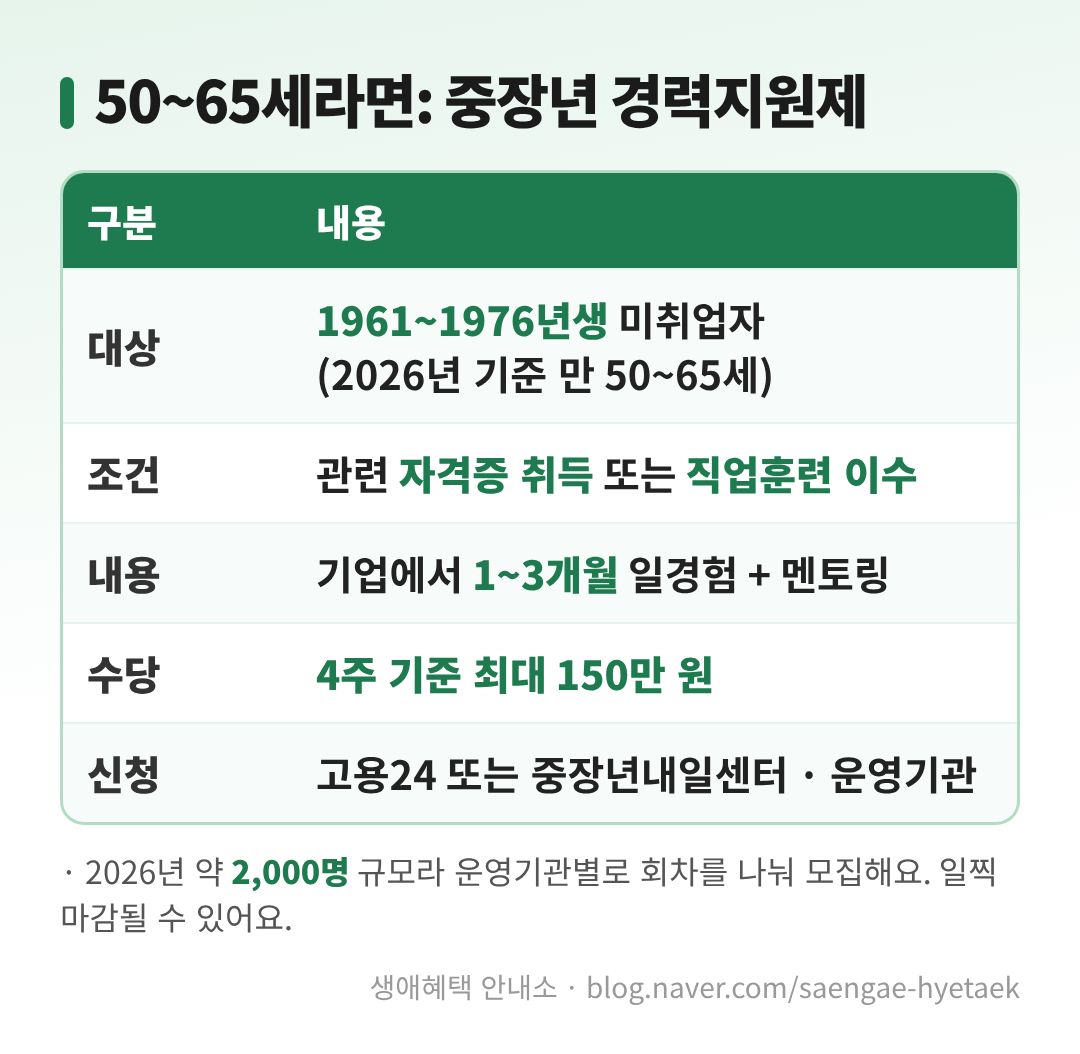
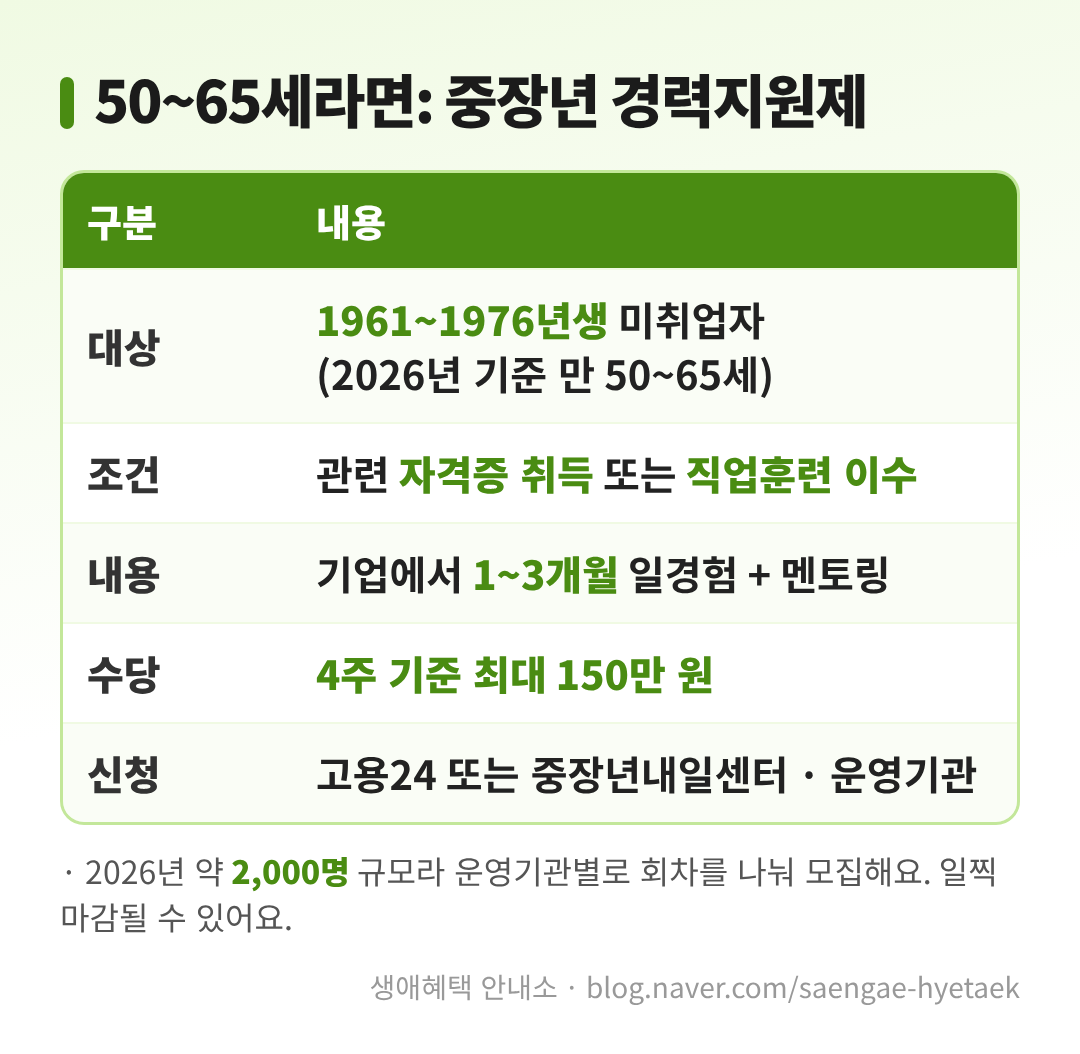
요일 색 확정: 월 다홍·수 파랑·금 녹색(#4A8C12)
Claude-Session: https://claude.ai/code/session_01Nk3GpQpxJj9NPpDGjGUV5D

diff --git a/tools/blog-card/make-viewer.py b/tools/blog-card/make-viewer.py
@@ -6,7 +6,7 @@ ROOT = os.path.dirname(os.path.dirname(os.path.dirname(os.path.abspath(__file__)
 BLOG = os.path.join(ROOT, 'blog')
 OUT = os.path.join(ROOT, 'viewer')
 DAYS = '월화수목금토일'
-COLOR = {'money': '#d9480f', 'digital': '#1c5fd4', 'job': '#1E7B4F', 'guide': '#0f8a6c'}
+COLOR = {'money': '#d9480f', 'digital': '#1c5fd4', 'job': '#4a8c12', 'guide': '#0f8a6c'}
 
 shutil.rmtree(OUT, ignore_errors=True)
 os.makedirs(os.path.join(OUT, 'img'))

diff --git a/HANDOFF.md b/HANDOFF.md
@@ -2,6 +2,9 @@
 
 새 대화에서 이 파일부터 읽고 이어서 작업해요.
 
+## 11/5 23:30 — ⚠ 요일 색 확정 (사장님이 화면 보여 주며 확인, 약속): 월 다홍 #D9480F · 수 파랑 #1C5FD4 · 금 녹색 #4A8C12
+- tools/blog-card make-card·make-table(theme money/digital/job)·make-viewer 그대로 이 값. 바꾸지 말 것. 구글 문서 '작업 규칙' 요일 색도 이 값으로 고침.
+
 ## 11/5 15:15 — v0.5.1 출시됨(사장님 14:08) + 콘솔 미리보기 캡처 최신화
 - 콘솔 '앱 출시 → 앱 정보 수정 → 2 카테고리 및 노출 → 미리보기 및 스크린샷'. 새 캡처 `release/store/생애혜택안내소-미리보기-1~3-*.png`(636×1048).
 - ⚠ 사장님 원칙: 미리보기는 늘 최신으로. 고정 그림이라 날짜가 박히면 멈춰 보이므로 캡처할 때 날짜(.stamp)는 숨김(앱 안 날짜는 그대로 매일 바뀜). 화면이 바뀌는 버전마다 다시 캡처해 드릴 것. 캡처 방법: preview 빌드 → playwright 390×643 @636/390 배율, github 데이터 요청은 저장소 docs/data로 대체, HIDE CSS로 날짜 숨김.
